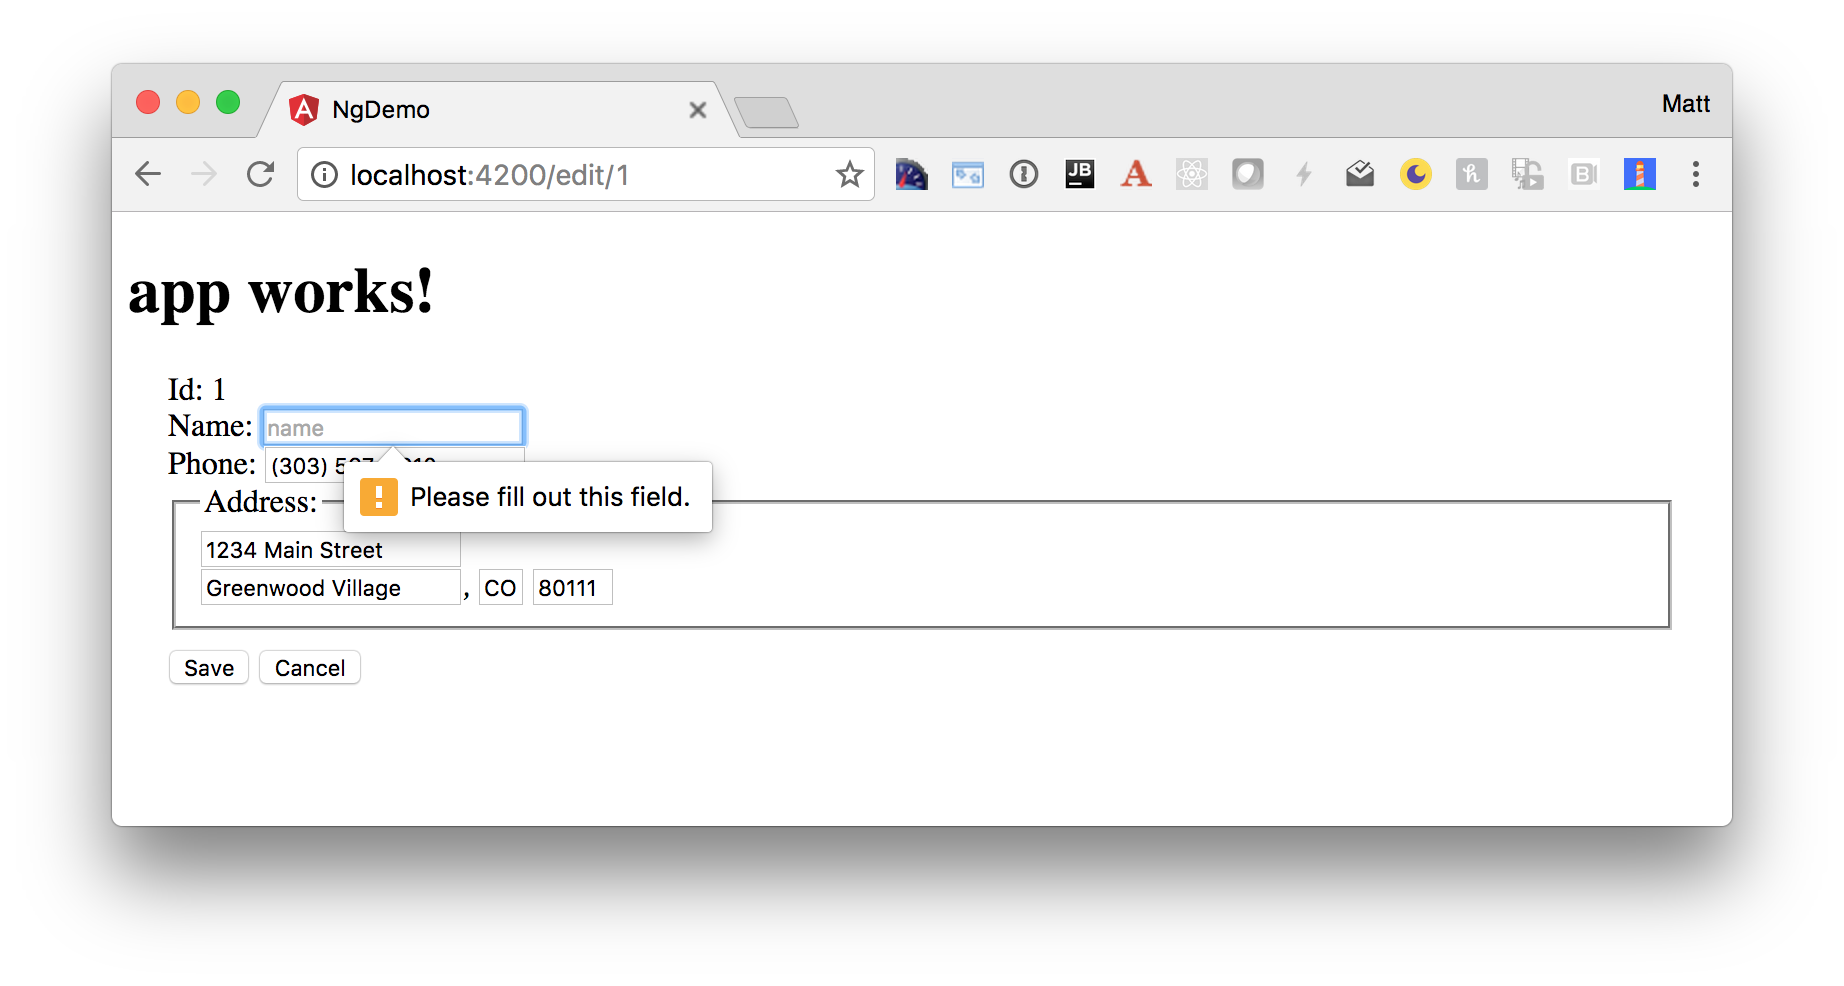
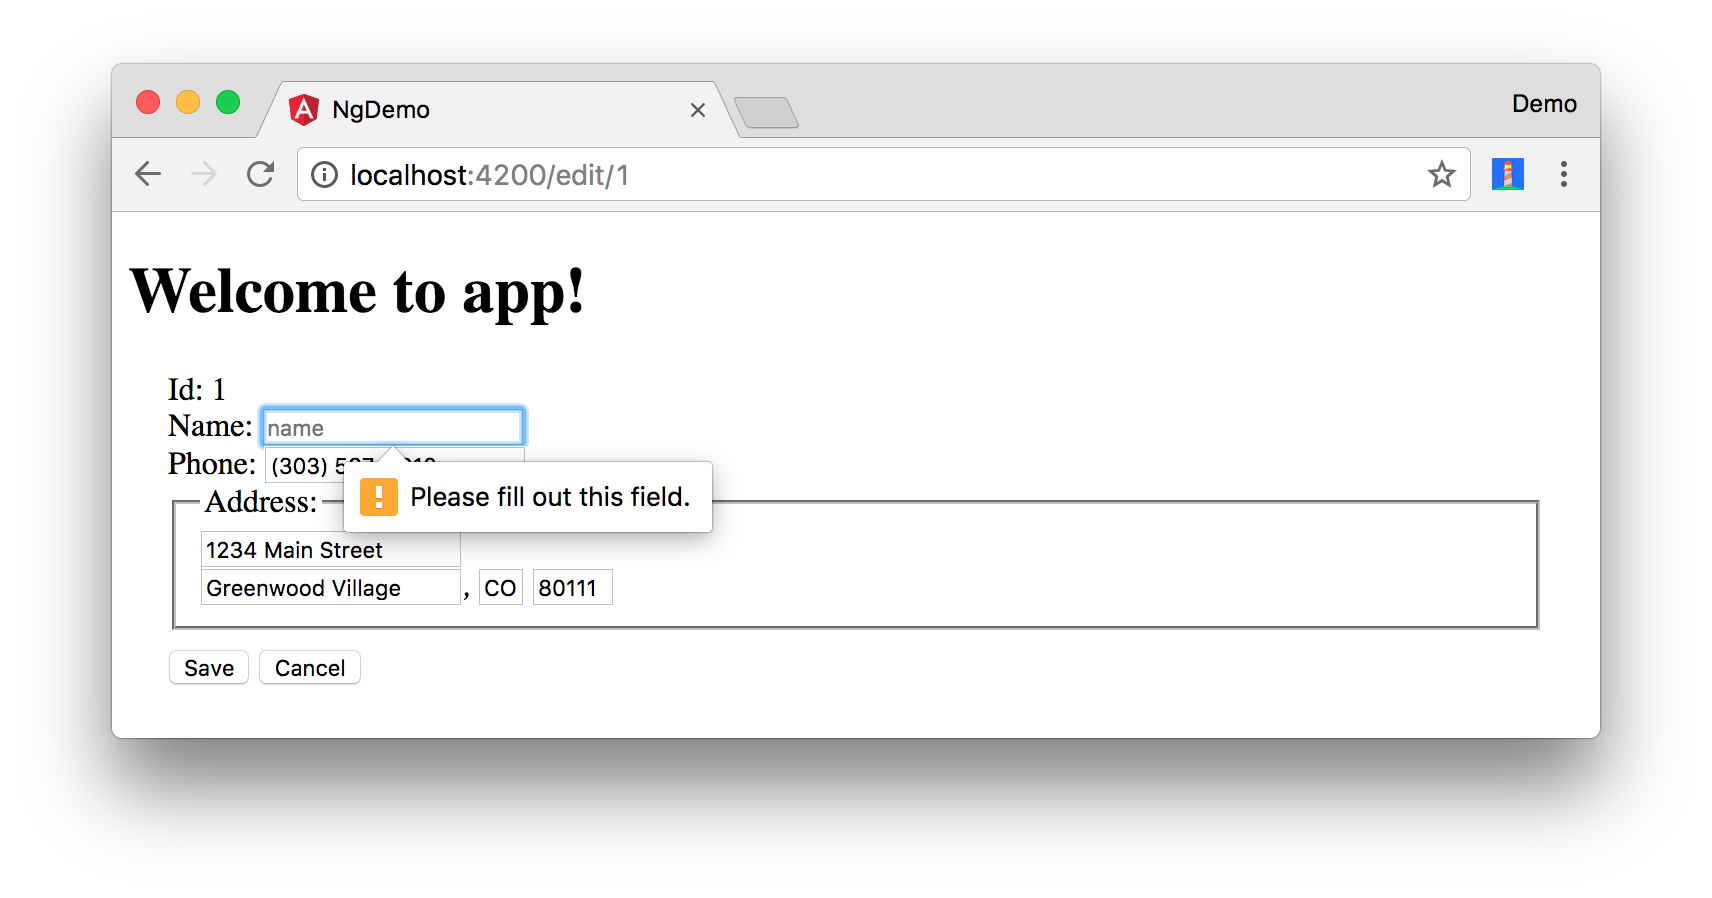
Update screenshots and tutorial after QA with Angular CLI 1.3.2

Changed region(s): [[0.0619, 0.0624, 0.9597, 0.8419]]

diff --git a/src/app/app.module.ts b/src/app/app.module.ts
@@ -1,18 +1,17 @@
 import { BrowserModule } from '@angular/platform-browser';
 import { NgModule } from '@angular/core';
 import { FormsModule } from '@angular/forms';
-import { HttpModule } from '@angular/http';
-
 import { AppComponent } from './app.component';
 import { SearchComponent } from './search/search.component';
-import { EditComponent } from './edit/edit.component';
 import { Routes, RouterModule } from '@angular/router';
 import { SearchService } from './shared';
+import { HttpModule } from '@angular/http';
+import { EditComponent } from './edit/edit.component';
 
 const appRoutes: Routes = [
-  { path: 'search', component: SearchComponent },
-  { path: 'edit/:id', component: EditComponent },
-  { path: '', redirectTo: '/search', pathMatch: 'full' }
+  {path: 'search', component: SearchComponent},
+  {path: 'edit/:id', component: EditComponent},
+  {path: '', redirectTo: '/search', pathMatch: 'full'}
 ];
 
 @NgModule({
@@ -23,11 +22,12 @@ const appRoutes: Routes = [
   ],
   imports: [
     BrowserModule,
+    RouterModule.forRoot(appRoutes),
     FormsModule,
-    HttpModule,
-    RouterModule.forRoot(appRoutes)
+    HttpModule
   ],
   providers: [SearchService],
   bootstrap: [AppComponent]
 })
-export class AppModule { }
+export class AppModule {
+}

diff --git a/src/app/search/search.component.spec.ts b/src/app/search/search.component.spec.ts
@@ -1,11 +1,11 @@
-/* tslint:disable:no-unused-variable */
-import { ActivatedRoute, Router } from '@angular/router';
-import { MockActivatedRoute, MockRouter } from '../shared/search/mocks/routes';
-import { MockSearchService } from '../shared/search/mocks/search.service';
-import { SearchComponent } from './search.component';
 import { ComponentFixture, TestBed } from '@angular/core/testing';
-import { FormsModule } from '@angular/forms';
+import { SearchComponent } from './search.component';
+import { MockSearchService } from '../shared/search/mocks/search.service';
+import { MockActivatedRoute, MockRouter } from '../shared/search/mocks/routes';
 import { SearchService } from '../shared/search/search.service';
+import { ActivatedRoute, Router } from '@angular/router';
+import { FormsModule } from '@angular/forms';
+import { RouterTestingModule } from '@angular/router/testing';
 
 describe('SearchComponent', () => {
   let component: SearchComponent;
@@ -26,7 +26,7 @@ describe('SearchComponent', () => {
         {provide: ActivatedRoute, useValue: mockActivatedRoute},
         {provide: Router, useValue: mockRouter}
       ],
-      imports: [FormsModule]
+      imports: [FormsModule, RouterTestingModule]
     }).compileComponents();
   });
 

diff --git a/src/app/shared/search/mocks/helper.ts b/src/app/shared/search/mocks/helper.ts
@@ -19,10 +19,10 @@ export class SpyObject {
       object = new SpyObject();
     }
 
-    let m = {};
+    const m = {};
     Object.keys(config).forEach((key) => m[key] = config[key]);
     Object.keys(overrides).forEach((key) => m[key] = overrides[key]);
-    for (let key in m) {
+    for (const key in m) {
       object.spy(key).andReturn(m[key]);
     }
     return object;
@@ -30,7 +30,7 @@ export class SpyObject {
 
   constructor(type = null) {
     if (type) {
-      for (let prop in type.prototype) {
+      for (const prop in type.prototype) {
         let m = null;
         try {
           m = type.prototype[prop];
@@ -58,7 +58,7 @@ export class SpyObject {
 
   /** @internal */
   _createGuinnessCompatibleSpy(name): GuinessCompatibleSpy {
-    let newSpy: GuinessCompatibleSpy = <any>jasmine.createSpy(name);
+    const newSpy: GuinessCompatibleSpy = <any>jasmine.createSpy(name);
     newSpy.andCallFake = <any>newSpy.and.callFake;
     newSpy.andReturn = <any>newSpy.and.returnValue;
     newSpy.reset = <any>newSpy.calls.reset;

diff --git a/src/app/search/search.component.ts b/src/app/search/search.component.ts
@@ -1,5 +1,5 @@
 import { Component, OnInit, OnDestroy } from '@angular/core';
-import { Person, SearchService } from '../shared/index';
+import { Person, SearchService } from '../shared';
 import { Router, ActivatedRoute } from '@angular/router';
 import { Subscription } from 'rxjs';
 
@@ -22,21 +22,19 @@ export class SearchComponent implements OnInit, OnDestroy {
     });
   }
 
-  search(): void {
-    this.searchService.search(this.query).subscribe(
-      data => { this.searchResults = data; },
-      error => console.log(error)
-    );
-  }
-
-  onSelect(person: Person) {
-    this.router.navigate(['/edit', person.id]);
-  }
-
   ngOnInit() {
   }
 
   ngOnDestroy() {
     this.sub.unsubscribe();
+  }
+
+  search(): void {
+    this.searchService.search(this.query).subscribe(
+      data => {
+        this.searchResults = data;
+      },
+      error => console.log(error)
+    );
   }
 }

diff --git a/src/app/shared/search/search.service.spec.ts b/src/app/shared/search/search.service.spec.ts
@@ -7,13 +7,12 @@ import { MockBackend } from '@angular/http/testing';
 describe('SearchService', () => {
   beforeEach(() => {
     TestBed.configureTestingModule({
-      providers: [
+      providers: [SearchService,
         {
           provide: Http, useFactory: (backend: ConnectionBackend, defaultOptions: BaseRequestOptions) => {
           return new Http(backend, defaultOptions);
         }, deps: [MockBackend, BaseRequestOptions]
         },
-        {provide: SearchService, useClass: SearchService},
         {provide: MockBackend, useClass: MockBackend},
         {provide: BaseRequestOptions, useClass: BaseRequestOptions}
       ]

diff --git a/src/app/app.component.spec.ts b/src/app/app.component.spec.ts
@@ -1,12 +1,14 @@
 import { TestBed, async } from '@angular/core/testing';
+import { RouterTestingModule } from '@angular/router/testing';
 
 import { AppComponent } from './app.component';
-import { RouterTestingModule } from '@angular/router/testing';
 
 describe('AppComponent', () => {
   beforeEach(async(() => {
     TestBed.configureTestingModule({
-      declarations: [AppComponent],
+      declarations: [
+        AppComponent
+      ],
       imports: [RouterTestingModule]
     }).compileComponents();
   }));

diff --git a/src/app/search/search.component.html b/src/app/search/search.component.html
@@ -14,7 +14,7 @@
   </thead>
   <tbody>
   <tr *ngFor="let person of searchResults; let i=index">
-    <td><a href="" (click)="onSelect(person); false">{{person.name}}</a></td>
+    <td><a [routerLink]="['/edit', person.id]">{{person.name}}</a></td>
     <td>{{person.phone}}</td>
     <td>{{person.address.street}}<br/>
       {{person.address.city}}, {{person.address.state}} {{person.address.zip}}

diff --git a/src/app/edit/edit.component.ts b/src/app/edit/edit.component.ts
@@ -1,5 +1,5 @@
 import { Component, OnInit, OnDestroy } from '@angular/core';
-import { Address, Person, SearchService } from '../shared/index';
+import { Address, Person, SearchService } from '../shared';
 import { Subscription } from 'rxjs';
 import { ActivatedRoute, Router } from '@angular/router';
 

diff --git a/src/app/edit/edit.component.spec.ts b/src/app/edit/edit.component.spec.ts
@@ -1,4 +1,3 @@
-/* tslint:disable:no-unused-variable */
 import { MockSearchService } from '../shared/search/mocks/search.service';
 import { EditComponent } from './edit.component';
 import { TestBed } from '@angular/core/testing';

diff --git a/src/app/app.component.html b/src/app/app.component.html
@@ -1,6 +1,3 @@
-<h1>
-  Welcome to {{title}}!
-</h1>
-
+<h1>Welcome to {{title}}!</h1>
 <!-- Routed views go here -->
 <router-outlet></router-outlet>
